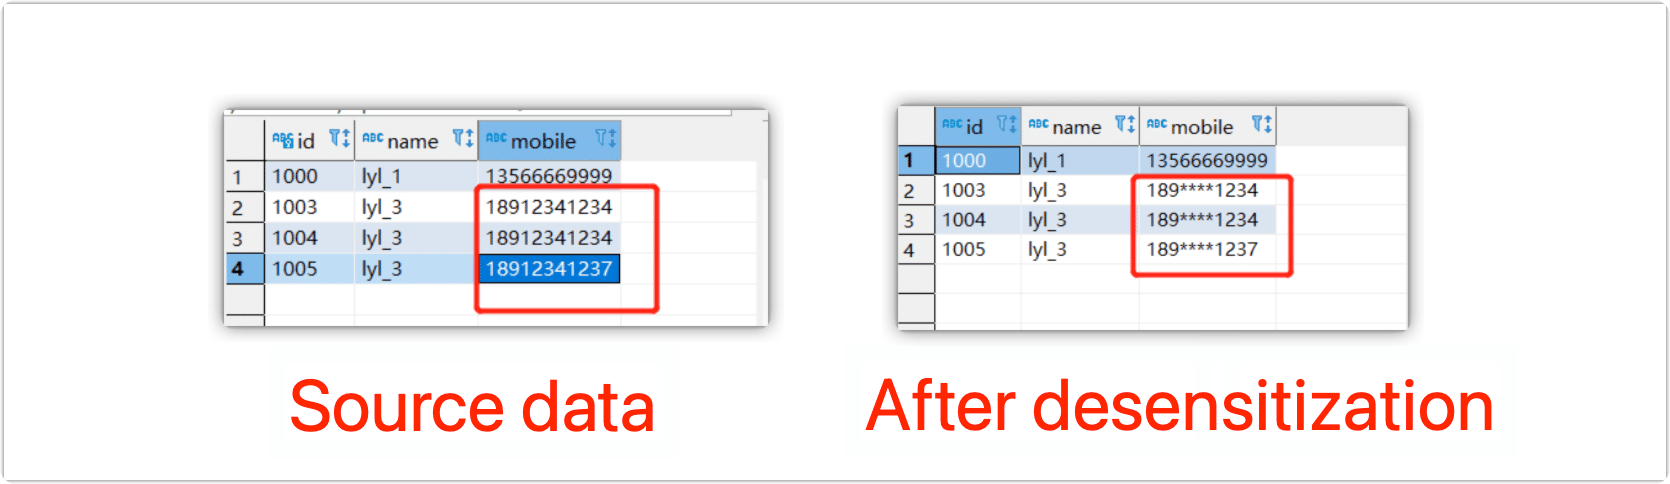
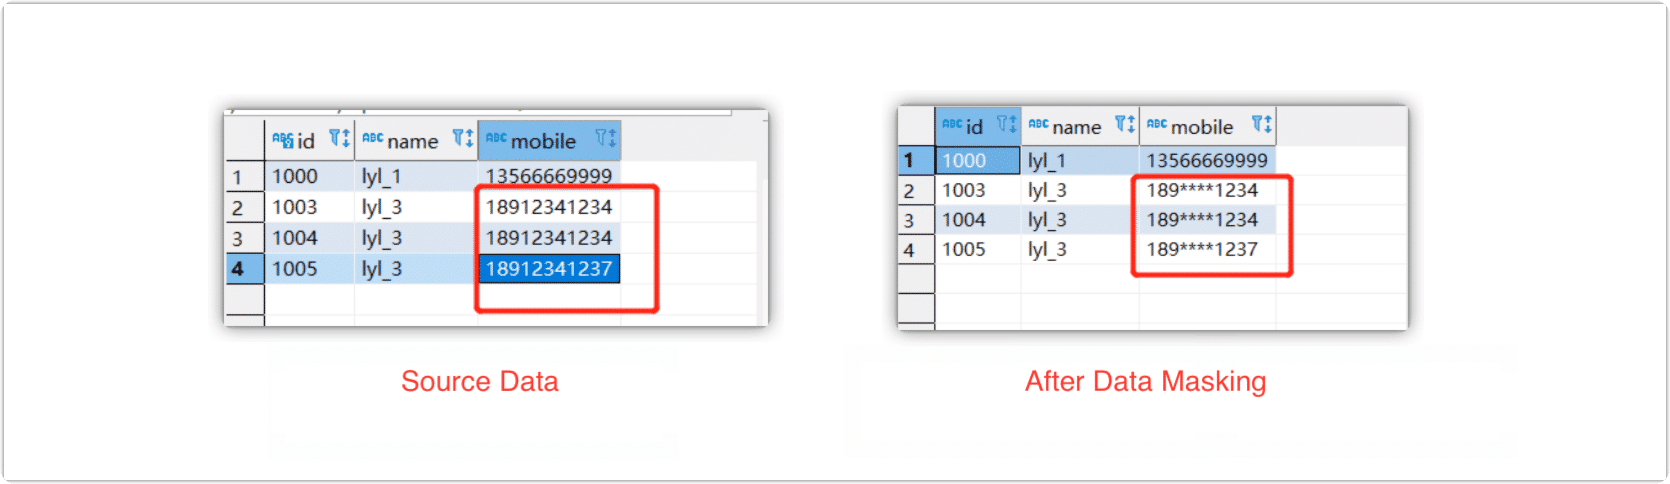
Part 1

Changed region(s): [[0.4982, 0.7748, 0.903, 0.8988], [0.1557, 0.7748, 0.4048, 0.8988]]

diff --git a/i18n/en/docusaurus-plugin-content-docs/current/cloud/introduction/use-cases.md b/i18n/en/docusaurus-plugin-content-docs/current/cloud/introduction/use-cases.md
@@ -2,35 +2,35 @@
 
 ### Database Modernization
 
-With the development of database technology, modern databases that support more complex business processing have shifted from a centralized to a distributed architecture, and from SQL to NoSQL databases. With real-time synchronization and convergence technology from Tapdata Cloud, you can easily modernize your database to make your applications more secure, reliable, scalable, and manageable. Tapdata Cloud reduces complexity and increases agility, allowing you to focus on business innovation.
+As database technology advances, modern databases have evolved from centralized to distributed architectures and shifted from SQL to NoSQL databases to support complex business processing. With Tapdata Cloud's real-time synchronization and convergence technology, database modernization becomes effortless, resulting in more secure, reliable, scalable, and manageable applications. Tapdata Cloud simplifies complexity, enhances agility, and enables you to concentrate on business innovation.
 
 ### Accelerate Full-text Searching
 
-Traditional relational databases accelerate data retrieval by indexing, but cannot support the need for full-text data retrieval. Tapdata Cloud can synchronize data from relational databases to ElasticSearch, helping users to easily retrieve data in full text.
-
+Traditional relational databases accelerate data retrieval by indexing, but cannot support the need for full-text data retrieval. Tapdata Cloud offers a solution by enabling seamless data synchronization from relational databases to Elastic-Search, empowering users to effortlessly retrieve data using full-text search capabilities.
 
 ### No-dev Cache Update Method
 
-In order to improve business efficiency and optimize user experience, it is common practice to introduce a cache layer in the business architecture to speed up access speed and read concurrency. However, because cache data cannot be stored permanently, cache abnormal exits may cause data loss, which affects business stability and reliability. The data synchronization function provided by Tapdata Cloud can help you realize real-time synchronization from business database to cached database, realize a lightweight cache update strategy, and make the application architecture more simple and safe.
+To enhance business efficiency and optimize user experience, it is a common practice to introduce a cache layer in the business architecture, improving access speed and read concurrency. However, as cache data cannot be permanently stored, abnormal cache exits can result in data loss, impacting business stability and reliability. Tapdata Cloud's data synchronization function addresses this challenge by enabling real-time synchronization from the business database to the cached database. This facilitates a lightweight cache update strategy, simplifies the application architecture, and ensures both simplicity and safety.
 
+### Seamless Database Migration with Zero Downtime
 
-### Downtime-free Database Migration
+Traditional migration methods often require stopping data writing to the source database, resulting in downtime during the migration process to ensure data consistency. This downtime can last for hours or even days, significantly impacting business operations.
 
-In order to ensure data consistency, traditional migration methods require stopping the writing of data to the source database during data migration, that is, the need for downtime migration. Depending on the amount of data and the network, the migration can take hours or even days, which can have a big impact on the business.
+Tapdata Cloud offers a downtime-free migration solution that minimizes the impact on your business. The downtime only occurs when switching from the source instance to the target instance, and the rest of the time your business can continue to operate normally, with downtime reduced to the minute level. The migration process consists of two stages: full data synchronization and incremental data synchronization. During the incremental data synchronization stage, data from the source instance is continuously synchronized to the target instance in real-time. You can validate your business in the target database and once verified, smoothly switch your operations to the target database for a seamless migration.
 
-Tapdata Cloud provides you with a downtime-free migration solution that affects your business only when it switches from the source instance to the target instance and other times when your business can serve as normal, reducing downtime to the minute level. The entire migration process includes two stages: full data synchronization and incremental data synchronization. When entering the incremental data synchronization stage, the data of the source instance will be synchronized to the target instance in real-time. You can verify your business in the target database, and once verified, you can switch your business to the target database for a smooth migration.
+### Accelerating Access with Read/Write Separation
 
-### Read/Write Separation to Accelerate Access
+In cross-regional/cross-border businesses, relying on a single-region deployment in traditional architectures leads to significant access delays and poor user experiences when users access services from different regions. To address this, Tapdata Cloud optimizes the deployment architecture and adjusts access logic. All write requests from users across regions are directed to the main business center, while real-time synchronization via Tapdata Cloud ensures that the data is replicated to the respective sub-business centers. Furthermore, read requests from users in various regions are routed to the nearest sub-business center, eliminating remote access and greatly enhancing the speed of business access.
 
-For cross-regional/cross-border business, if the business is deployed only in a single region according to the traditional architecture, the access delay is very large and the user experience is poor when the user accesses the service cross-border. Through business deployment architecture and access logic adjustment, all write requests of users in all regions are routed back to the main business center, and the data of the main business center is synchronized to the sub-business center in real-time through Tapdata Cloud, and read requests of users in various regions are routed to the nearest sub-business center, thus avoiding remote access and accelerating business access speed.
+### Empowering Reading Capacity with Horizontal Scaling
 
-### Horizontal Scaling for Reading Capacity
-
-For scenarios with a large number of read requests, a single database instance may not be able to bear the full read pressure. You can use the real-time synchronization function of DFS to build read-only instances, shunt read requests to these read-only instances, realize the elastic expansion of read capacity, and share the pressure of the main database instance.
+In scenarios with a high volume of read requests, a single database instance may not be able to handle the entire read load effectively. To address this, you can utilize the real-time synchronization feature of DFS (Distributed File System) to establish read-only instances. By redirecting read requests to these read-only instances, you can achieve elastic scalability of the read capacity while reducing the load on the primary database instance.
 
 ### Offsite Data Disaster Recovery
 
-In order to avoid the possibility of a single point of business due to business availability, more and more enterprises are deploying their business on different regions/public clouds. To avoid service unavailability due to service failure at the Availability Zone level, you can build off-site Disaster Preparedness Centers to improve service availability. The data of the disaster recovery center and the business center are synchronized in real-time through DFS to ensure data consistency. When the business center fails, you can switch business traffic directly to the Disaster Preparedness Center to quickly restore service.
+In order to mitigate the risk of business unavailability resulting from service disruptions, many enterprises are adopting a multi-region or multi-cloud deployment strategy. By spreading their business across different regions or public clouds, they can minimize the impact of any single point of failure. To further enhance service availability and mitigate risks at the Availability Zone level, establishing off-site Disaster Recovery Centers is a recommended approach. These centers serve as backup locations and are equipped to quickly restore service in the event of a failure at the primary business center. Real-time data synchronization through DFS ensures data consistency between the disaster recovery center and the primary business center.
+
+You can seamlessly redirect the business traffic to the Disaster Recovery Center, enabling a swift restoration of services. This proactive measure helps minimize downtime and ensures uninterrupted service delivery.
 
 ### Geo-redundancy
 

diff --git a/i18n/en/docusaurus-plugin-content-docs/current/cloud/billing/purchase.md b/i18n/en/docusaurus-plugin-content-docs/current/cloud/billing/purchase.md
@@ -1,6 +1,6 @@
 # Subscription Instance
 
-After registering Tapdata Cloud, you can create one Agent instance for free, and if you want to create more agents or higher transfer performance, you can follow the flow of this article to complete the subscription of the instance.
+After registering with Tapdata Cloud, you will receive the benefit of creating one free Agent instance. If you require additional agents or desire higher transfer performance, you can refer to the instructions in this article to complete the subscription process for the desired instance.
 
 ## Procedure
 
@@ -8,7 +8,7 @@ After registering Tapdata Cloud, you can create one Agent instance for free, and
 
 2. In the left navigation panel, click **Agent Management**.
 
-   We've created a free Agent instance, and now we need to subscribe to more Agent instances to meet the performance needs of the business.
+   After successfully creating a free Agent instance, if you find that your business requires additional Agent instances to meet performance needs, you can proceed with subscribing to more instances. This will allow you to scale up the capabilities of Tapdata Cloud to accommodate your business requirements effectively.
 
    ![Agent Example](../images/agent_free.png)
 
@@ -18,7 +18,7 @@ After registering Tapdata Cloud, you can create one Agent instance for free, and
 
    :::tip
 
-   In **Semi Managed Mode**, you can [deploy Agent](../quick-start/install-agent/README.md) on an existing device, making full use of the existing hardware resources to get lower prices while further improving security. In addition, you can also purchase/try Tapdata Cloud through [Alibaba Cloud Marketplace](https://market.aliyun.com/products/56024006/cmgj00061912.html), and after obtaining an authorization code in Alibaba Cloud Marketplace, enter it at the bottom of this page to complete the binding.
+   In **Semi Managed Mode**, you have the flexibility to [deploy the Agent](../quick-start/install-agent/README.md) on an existing device, leveraging the available hardware resources. This approach offers cost savings while enhancing security. Additionally, you can explore the option of purchasing or trying Tapdata Cloud through [Alibaba Cloud Marketplace](https://market.aliyun.com/products/56024006/cmgj00061912.html). Once you obtain an authorization code from the marketplace, you can enter it at the bottom of the page to complete the binding process. This allows for a seamless integration between Tapdata Cloud and Alibaba Cloud Marketplace.
 
    :::
 
@@ -30,9 +30,11 @@ After registering Tapdata Cloud, you can create one Agent instance for free, and
    * **Subscription method**: Select the required subscription method, in order to avoid the expiration of the instance affecting the execution of the task, it is recommended to choose the Annually (**10% off**) or Monthly (**5% off**).
    * **Select currency**: Currently supports CNY or USD.
 
-6. Click **Next**, confirm the specifications to be purchased, the billing method, confirm the email address where you received the bill, and then click **OK**.
+6. Click **Next**, on the following page, carefully review and confirm the specifications you wish to purchase. Ensure that the selected billing method aligns with your preferences. Additionally, verify that the email address provided is accurate and where you would like to receive the bill. 
 
-7. On the payment page that you are redirected to, follow the instructions on the page to complete the payment process, and you can download the payment credentials after completing the payment.
+   Once you have double-checked all the information, click on the **OK** button to proceed with the purchase.
+
+7. You will redirected to payment page. Please follow the instructions on the payment page to complete the payment process. After completing the payment, you will be able to download the payment credentials.
 
 8. After the payment is successful, return to the Tapdata Cloud platform to see that the Agent instance you purchased is **To be deployed**.
 

diff --git a/i18n/en/docusaurus-plugin-content-docs/current/cloud/introduction/benefits.md b/i18n/en/docusaurus-plugin-content-docs/current/cloud/introduction/benefits.md
@@ -2,7 +2,7 @@
 
 ## Innovative Real-time Data Synchronization
 
-Tapdata Cloud innovatively combines database CDC with streaming computing technology, simplifying the data processing process and enabling users to leverage innovative possibilities beyond simple data synchronization.
+Tapdata Cloud ingeniously integrates database Change Data Capture (CDC) with streaming computing technology. This innovative integration simplifies the data processing workflow, empowering users to explore new and inventive possibilities beyond traditional data synchronization.
 
 ## Unified Data Service Platform
 
@@ -10,20 +10,20 @@ Based on the concept of data hierarchical governance, data scattered in differen
 
 ## Zero Code Visual Drag and Drop
 
-The orchestration and setup process for Tapdata Cloud data synchronization tasks supports drag-and-drop visualization operations without the need for coding. It also supports multi-level, multi-node synchronization operations, significantly reducing the complexity of defining synchronization task flows and improving efficiency and quality.
+The orchestration and configuration process for Tapdata Cloud data synchronization tasks is seamlessly accomplished through intuitive drag-and-drop visual operations, eliminating the need for coding. Additionally, it supports multi-level and multi-node synchronization operations, effectively simplifying the definition of synchronization task flows and enhancing overall efficiency and quality.
 
 ## Perfect Support for SQL - > NoSQL
 
-The comprehensive JSON support can easily realize real-time synchronization from the relational database to non-relational data through drag-and-drop operations. It also support one-to-one, many-to-one, one-to-many, and other modeling methods, which can easily help users to modernize the database.
+Tapdata Cloud provides extensive JSON support, enabling effortless real-time synchronization from relational databases to non-relational data using intuitive drag-and-drop operations. It also supports various modeling methods, including one-to-one, many-to-one, and one-to-many, making it simple for users to modernize their databases.
 
 ## Comprehensive Database Support
 
- Tapdata Cloud provides comprehensive support for major open source databases, commercial databases, and messaging middleware, including MongoDB, MySQL, Oracle, SQL Server, DB2, ElasticSearch, Kafka, Sybase, PostgreSQL, Redis, GaussDB, and more.
+Tapdata Cloud provides comprehensive support for major open source databases, commercial databases, and messaging middleware, including MongoDB, MySQL, Oracle, SQL Server, Db2, ElasticSearch, Kafka, Sybase, PostgreSQL, Redis, GaussDB, and more.
 
-## Visual Task Run Monitoring
+## Enhanced Task Monitoring with Visual Monitoring
 
-With the visual interface, users can monitor the operation status of tasks and quickly access statistics on data reading, data writing, and delay for various tasks and nodes.
+Through the intuitive visual interface, users can monitor the operational status of tasks and access real-time statistics related to data reading, data writing, and delay for different tasks and nodes.
 
 ## Fully Designed Security
 
-Security design priority for user data, user information, and task information encryption throughout the security measures to fully protect the user's data and information. For more introduction, see [Architecture and Workflow](architecture.md).
+Ensuring the security of user data and task information is a top priority in the design of Tapdata Cloud. The platform employs encryption mechanisms throughout its security measures to provide comprehensive protection for user data and information. For more introduction, see [Architecture and Workflow](architecture.md).

diff --git a/i18n/en/docusaurus-plugin-content-docs/current/cloud/billing/billing-overview.md b/i18n/en/docusaurus-plugin-content-docs/current/cloud/billing/billing-overview.md
@@ -4,16 +4,18 @@ This article introduces billing information such as billing items, billing metho
 
 ## Billing method
 
-Tapdata Cloud charges according to the **specifications** and **number** of Agent instances you subscribe to, you can get 1 Agent instance by completing account registration, and you can also choose to purchase more Agent instances by monthly, annual, consecutive monthly, and consecutive annual subscriptions to meet business needs:
+Tapdata Cloud charges based on the **specifications** and **number** of Agent instances you want to subscribe. You will get 1 Agent instance upon completing account registration, and you have the option to purchase additional Agent instances through monthly, annual, consecutive monthly, or consecutive annual subscriptions to meet your business requirements.
 
-- **One Month Only**: One-time purchase of one-month service, the subscription will not automatically renew after the expiration, and can be renewed manually.
-- **One Year Only**: One-time purchase of one-year service, the subscription will not automatically renew after the expiration, and can be renewed manually.
-- **Monthly**: Pay the monthly subscription fee, and automatically deduct the subscription fee for the next month before the due.
-- **Annually**: Pay the subscription fee annually, and automatically deduct the subscription fee for the next year before the due.
+There are several subscription options available for Tapdata Cloud:
+
+- **One Month Only**: This is a one-time purchase of a one-month service. The subscription will not automatically renew after the expiration and can be manually renewed if desired.
+- **One Year Only**: This option allows for a one-time purchase of a one-year service. The subscription will not automatically renew after the expiration and can be manually renewed when needed.
+- **Monthly**: With the monthly subscription option, you pay a monthly fee. The subscription fee for the next month will be automatically deducted before the due date, ensuring uninterrupted service.
+- **Annually**: The annual subscription option requires paying the subscription fee once a year. Similar to the monthly option, the subscription fee for the next year will be automatically deducted before the due date, providing convenience and continuity.
 
 :::tip
 
-When choosing the recurring monthly/annual billing method, Tapdata Cloud automatically deducts the subscription fee for the next cycle on the expiration date of each period, and you can check the details of the charge in the user center.
+When you select the recurring monthly or annual billing method, Tapdata Cloud will automatically deduct the subscription fee for the next billing cycle on the expiration date of each period. You can conveniently review the charge details in the **user center**, allowing you to stay informed about the payment information and have a clear understanding of the billing process for your Tapdata Cloud subscription.
 
 :::
 
@@ -88,9 +90,9 @@ Please select the appropriate Agent specifications according to the amount of da
 
 
 
-## Description of the Specification
+## Agent Specifications and Descriptions
 
-Since the data flow is usually affected by various factors such as the load performance of the Agent's machine, network transmission delay, network bandwidth, and source/target database workload, the performance of the following tables is only for reference.
+Please note that the performance of the following tables is provided for reference purposes only, as the data flow can be influenced by various factors such as the load performance of the Agent's machine, network transmission delay, network bandwidth, and the workload of the source and target databases.
 
 <table>
 <thead>

diff --git a/i18n/en/docusaurus-plugin-content-docs/current/cloud/introduction/terms.md b/i18n/en/docusaurus-plugin-content-docs/current/cloud/introduction/terms.md
@@ -4,15 +4,15 @@ This article introduces common terms used in Tapdata Cloud to help you quickly u
 
 ## Full data synchronization
 
-In other words, database migration/database cloning, in the data flow task, the full migration of data between various database-level data sources is suitable for business scenarios such as instance data migration, data up and down cloud migration, database split and expansion.
+Database migration or cloning, within the data flow task, is ideal for business scenarios involving complete data migration between different library-level data sources. This includes instances where data needs to be migrated, moved up or down the cloud, or when databases need to be split and expanded.
 
 ## Incremental data synchronization
 
-In the data flow task, the real-time synchronization of data through a specific association relationship or processing between multiple data sources is suitable for meeting the scenarios of user analysis, processing, disaster recovery and so on without affecting user business.
+In the data flow task, the real-time synchronization of data among multiple data sources through specific association relationships or processing is suitable for meeting user scenarios such as data analysis, processing, and disaster recovery without impacting user business operations.
 
 ## Data source
 
-Sources of data connected externally to the Tapdata system. Currently supported sources mainly refer to databases, followed by File, GridFS, RestAPI, Dummy, Custom, UDP, Cache and other types.
+The data sources that can be connected to the Tapdata system from external sources include databases, and in the future, there are plans to gradually expand the support for other types such as files, GridFS, RestAPI, Dummy, Custom, UDP, Cache, and more.
 
 ## Source Connection
 
@@ -28,4 +28,4 @@ Refers to the execution program that runs the synchronization task, and is respo
 
 ## TCM Management Side
 
-The Tapdata Cloud management console allows users to define their own orchestration synchronization tasks and issue synchronization tasks to synchronization instances.
+The Tapdata Cloud management console enables users to define custom orchestration synchronization tasks and deploy these tasks to synchronization instances for execution.

diff --git a/i18n/en/docusaurus-plugin-content-docs/current/cloud/introduction/architecture.md b/i18n/en/docusaurus-plugin-content-docs/current/cloud/introduction/architecture.md
@@ -2,19 +2,18 @@
 
 Tapdata Cloud components include Tapdata cloud manager and Tapdata agent:
 
-* **Tapdata Cloud Manager** (TCM): responsible for installing and configuring agents, and monitoring task status.
-
-* **Tapdata Agent:** obtaining task information from TCM, processing and converting data to send to the target, and reporting task status to TCM during task execution.
+* **Tapdata Cloud Manager** (TCM): Responsible for installing and configuring agents, as well as monitoring the status of tasks.
+* **Tapdata Agent:** Obtain task information from the Task Control Manager (TCM), processing and converting the data to be sent to the target, and reporting the task status back to the TCM during the execution of the task.
 
 ![](../images/architecture.png)
 
 
 
-Tapdata Cloud utilizes various cybersecurity measures to safeguard user data and information:
+Tapdata Cloud employs a range of cyber-security measures to ensure the protection and security of user data and information.
 
-* **One-way connection**: The Tapdata Agent instance does not actively expose network information, and only connects to the TCM management service to obtain task information and report status information.
-* **HTTPS protocol**: Tapdata agent instances communicate with TCM using HTTPS protocol to prevent information theft and tampering.
-* **Trusted environment**: In self-built mode, all data is transferred inside the user's server and networking environment, so there is no data leakage.
+* **One-way Connection**: The Tapdata Agent instance does not actively expose network information, and only connects to the TCM management service to obtain task information and report status information.
+* **HTTPS Protocol**: Tapdata Agent instances establish communication with TCM using the HTTPS protocol, ensuring protection against information theft and tampering.
+* **Trusted Environment**: In self-built mode, all data is transmitted exclusively within the user's server and networking environment, ensuring that there is no risk of data leakage.
 
 
 

diff --git a/i18n/en/docusaurus-plugin-content-docs/current/cloud/billing/expiration.md b/i18n/en/docusaurus-plugin-content-docs/current/cloud/billing/expiration.md
@@ -1,12 +1,18 @@
 # Expiration Policy
 
-In order to avoid affecting the business, we recommend that you [renew the instance](renew-subscribe.md) before the expiration of the annual/monthly instance, or choose the continuous annual/monthly payment method when subscribing to the instance.
+To prevent any disruptions to your business operations, we highly recommend [renewing](renew-subscribe.md) your annual/monthly instance before it expires. Alternatively, during the initial subscription process, you can choose the continuous annual/monthly payment method. This ensures seamless continuity of your instance and avoids any potential impact on your business.
 
 
 
-After the expiration of the subscribed Agent instance, the effects are as follows:
+After the expiration of a subscribed Agent instance, the following effects can be observed:
 
-* The task associated with the agent can continue to run, but cannot execute the scheduled policy in the task.
-* The data source associated with the agent cannot load Schema.
-* The new task associated with the agent cannot be started.
-* The data source associated with the agent cannot test connection.
+* The associated tasks can continue to run, but they will be unable to execute any scheduled policies within the tasks.
+* The data source associated with the Agent will be unable to load the Schema.
+* New tasks associated with the Agent cannot be started.
+* The data source associated with the Agent cannot undergo a connection test.
+
+:::tip
+
+It is important to keep these effects in mind and ensure timely renewal or consider the appropriate actions to maintain uninterrupted functionality and data source operations for your Agent instance.
+
+:::

diff --git a/i18n/en/docusaurus-plugin-content-docs/current/cloud/billing/renew-subscribe.md b/i18n/en/docusaurus-plugin-content-docs/current/cloud/billing/renew-subscribe.md
@@ -1,6 +1,6 @@
 # Renew Instance
 
-For annual/monthly instances, Tapdata Cloud will remind you to renew in time one month before the expiration. In order to avoid affecting your business, please renew in time before the expiration of the instance or choose the **continuous annual**/**monthly** billing method at the time of purchase.
+For annual and monthly instances, Tapdata Cloud will send you a reminder one month before the expiration date to ensure timely renewal. To prevent any disruption to your business operations, it is important to renew your instance before it expires. Alternatively, you can choose the continuous annual or monthly billing method during the initial purchase, which will automatically renew your subscription without the need for manual intervention. This helps ensure seamless continuity of your Tapdata Cloud services.
 
 
 
@@ -8,7 +8,7 @@ For annual/monthly instances, Tapdata Cloud will remind you to renew in time one
 
 1. Log in to [Tapdata Cloud](https://cloud.tapdata.net/console/v3/).
 
-2. In the top-right corner of the page, click your username and select **User Center**.
+2. In the top-right corner of the page, click your username and select **Subscription Center**.
 
    ![User Center](../images/user_center.png)
 
@@ -18,5 +18,5 @@ For annual/monthly instances, Tapdata Cloud will remind you to renew in time one
 
    ![Renew Instance](../images/renew_subscribe.png)
 
-5. On the payment page that you are redirected to, follow the instructions on the page to complete the payment process.
+5. Follow the instructions on the payment page to complete the payment process.
 

diff --git a/i18n/en/docusaurus-plugin-content-docs/current/cloud/billing/refund.md b/i18n/en/docusaurus-plugin-content-docs/current/cloud/billing/refund.md
@@ -10,13 +10,13 @@ If you no longer need to use the Agent instance, you can follow the process to u
 
 3. Ensure that the Agent is not associated with a running task.
 
-   1. Locate the target Agent example to see if the task association is running, skip this step if the unassociated task.
+   1. Locate the target Agent to see if any running task is associated, skip this step if the there is not running task associated.
 
    2. As shown in the figure below, this Agent instance associates 1 running instance, then clicks the task number.
 
       ![Associated Task(s)](../images/agent_related_tasks.png)
 
-   3. On the Task List page that you are redirected to, stop the related task.
+   3. Once redirected to the Task List page, please locate the related task to stop it.
 
 4. Back to the **Agent Management** page, locate the target Agent and click **Stop** on the right.
 
@@ -39,7 +39,7 @@ When you initiate the unsubscribe operation, Tapdata Cloud will execute the refu
 
 :::tip
 
-You can click on your username in the upper right corner of the page, select **User Center**, and scroll down to the bottom of the page to view the start and end dates of the subscribed cycle.
+To view the start and end dates of your subscribed cycle, click on your username located in the upper right corner of the page, then select **Subscription Center**.
 
 :::
 

diff --git a/i18n/en/docusaurus-plugin-content-docs/current/cloud/what-is-tapdata-cloud.md b/i18n/en/docusaurus-plugin-content-docs/current/cloud/what-is-tapdata-cloud.md
@@ -13,8 +13,6 @@ Tapdata Cloud is a real-time data platform provided by Tapdata that integrates d
 
 Compared with traditional data migration/synchronization tools, Tapdata Cloud can provide a rich, easy-to-use, secure, and reliable data flow service to improve data development efficiency.
 
-
-
 * **Out of the Box**
 
   Simply [sign up for an account](https://cloud.tapdata.net/console/v3/#/), deploy Tapdata Agent according to the platform with one click, and start data synchronization right away.
@@ -33,7 +31,7 @@ Compared with traditional data migration/synchronization tools, Tapdata Cloud ca
 
 * **[Visual Operation without Coding](user-guide/workshop.md)**
 
-  Say goodbye to SQL and code, you can quickly complete the conversion rules such as renaming the table with a simple mouse drag and drop, and also support the UDF (User Defined Function) based on Javascript.
+  Say goodbye to SQL, you can quickly complete the conversion rules such as renaming the table with a simple mouse drag and drop, and also support the UDF (User Defined Function) based on Javascript.
 
 
 

diff --git a/i18n/en/docusaurus-plugin-content-docs/current/cloud/introduction/features.md b/i18n/en/docusaurus-plugin-content-docs/current/cloud/introduction/features.md
@@ -4,7 +4,7 @@ This article introduces the features of Tapdata Cloud to help you quickly unders
 
 ## Data Replication
 
-Tapdata Cloud data replication includes full synchronization and real-time incremental synchronization, which can help you to quickly achieve real-time synchronization between the same/heterogeneous data sources, which is suitable for data migration/synchronization, data disaster recovery, reading performance expansion, and other [business scenarios](use-cases.md).
+Tapdata Cloud offers support for both full data synchronization and real-time incremental data synchronization. Tapdata Cloud can help you to quickly achieve real-time synchronization between the same/heterogeneous data sources, which is suitable for data migration/synchronization, data disaster recovery, reading performance expansion, and other [business scenarios](use-cases.md).
 
 ![Data Replication Workflow](../images/features_data_copy.png)
 

diff --git a/i18n/en/docusaurus-plugin-content-docs/current/cloud/user-guide/custom-node.md b/i18n/en/docusaurus-plugin-content-docs/current/cloud/user-guide/custom-node.md
@@ -84,7 +84,7 @@ For information security, we want to desensitize some of the mobile phone number
 
    ![Phone number desensitization](../images/masking_mobile_en.png)
 
-8. Start the task. The phone number will be desensitized on the target node, and the result is as follows:
+8. Start the task. The phone number will be masked on the target node, and the result is as follows:
 
    ![Desensitization result](../images/desensitization_result_en.png)
 
